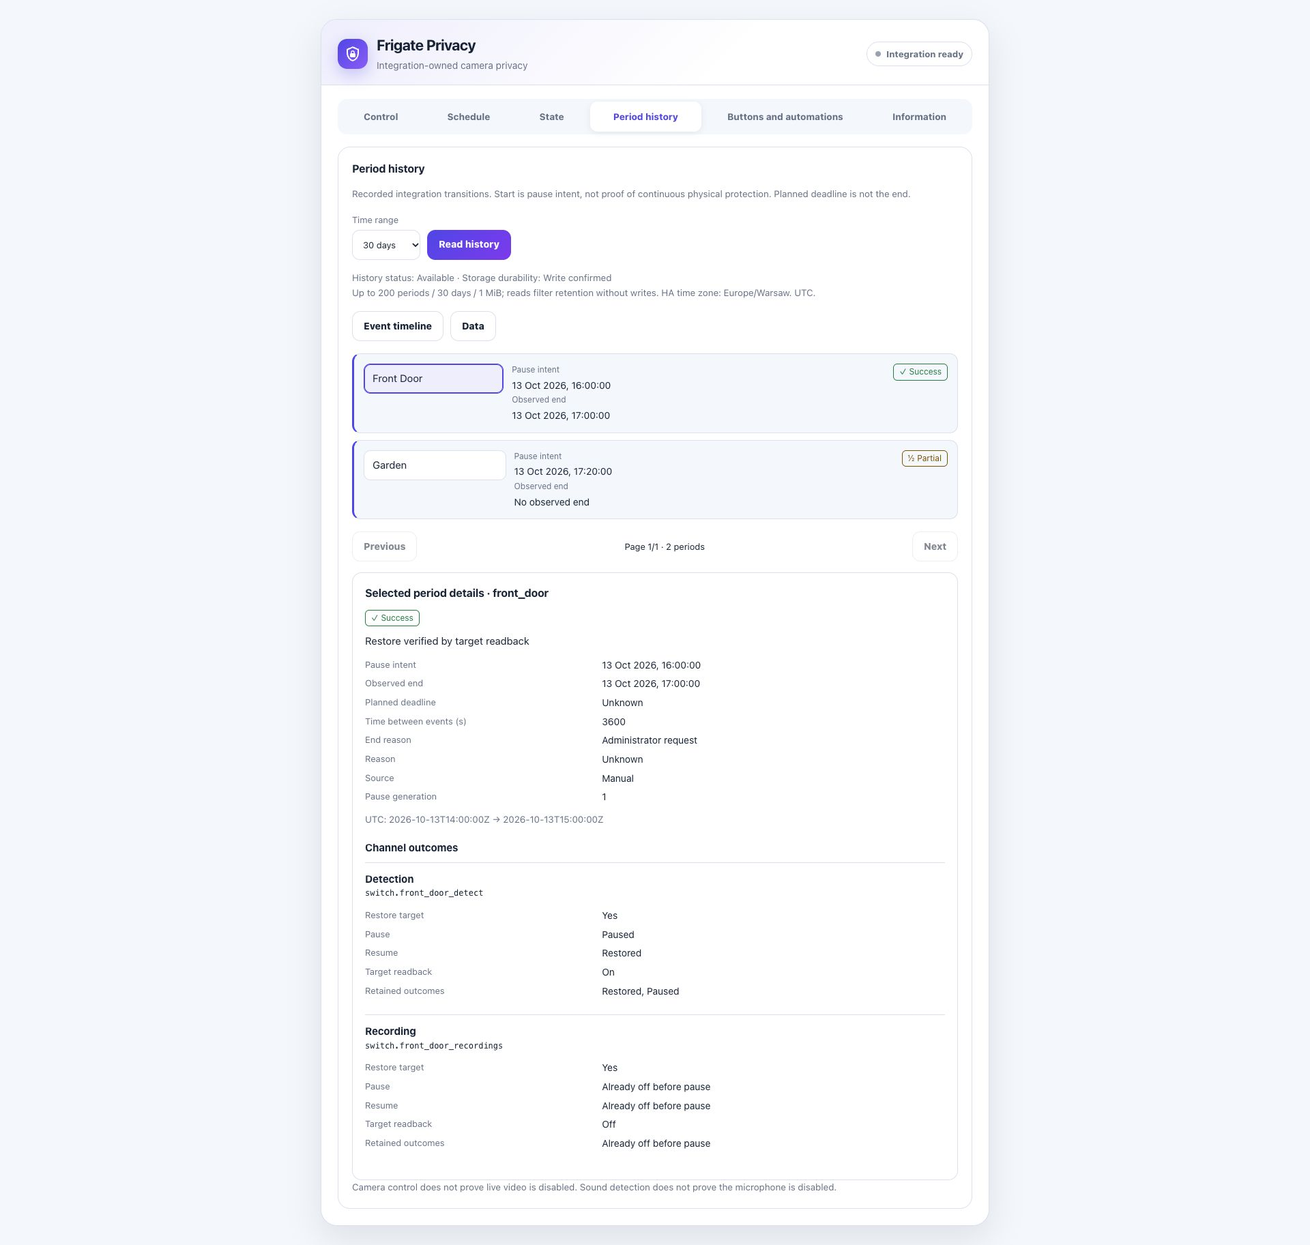
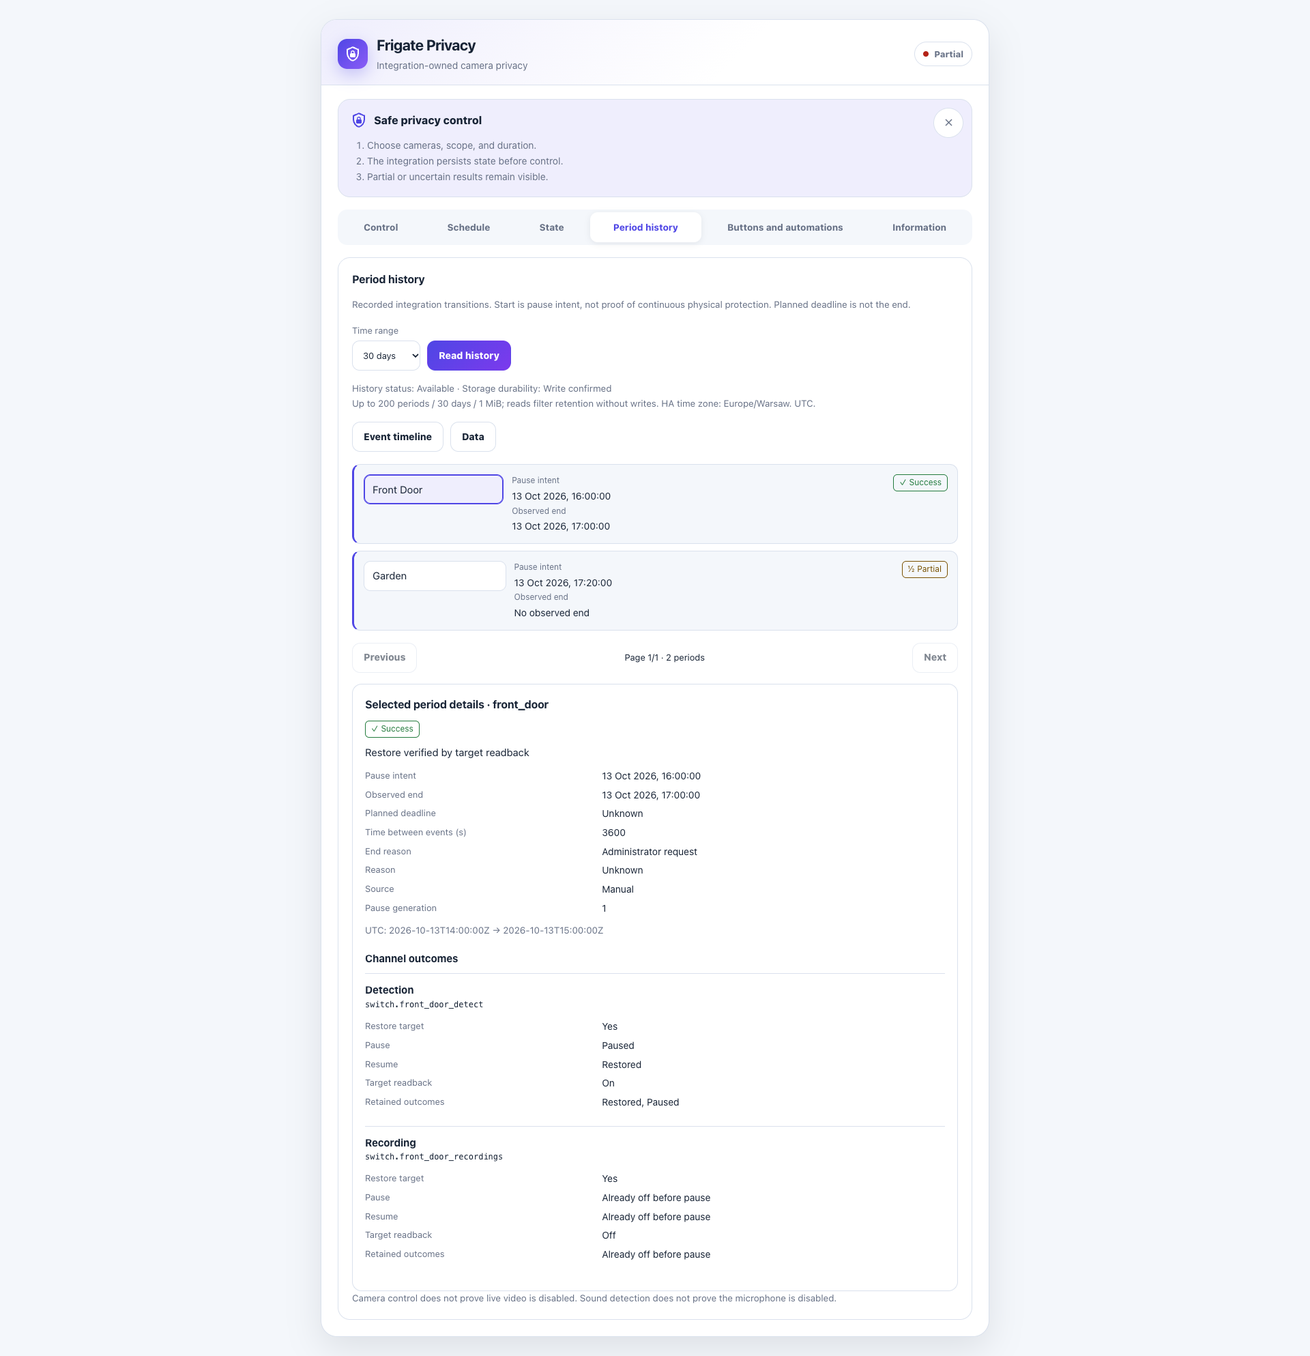
ui: qualify current camera feedback materials and readable layouts

diff --git a/docs/screenshots/_harness.html b/docs/screenshots/_harness.html
@@ -20,7 +20,7 @@ customElements.define('ha-icon',class extends HTMLElement {
  }
 });
 </script>
-<script src="../../ha-frigate-privacy.js?sha256=2250640b81e84646edd24beb830e9bee486ce52debc01453b00a8d4a7c184e5e"></script>
+<script src="../../ha-frigate-privacy.js?sha256=5e493e2751a6741882cdcae94a0ca6d3e07fa04c044732bfcc2add44fbe077a2"></script>
 <script>
 // Documentation fixture: synthetic state and actual periods.py projection only.
 // Mutations deliberately fail; integration acceptance uses a separate live HA fixture.
@@ -113,15 +113,214 @@ const periods={
   "scope": "recorded_transitions",
   "days": 30
 };
-const cameras=[['front_door','Front Door','off'],['garden','Garden','on']].map(([id,name,recording])=>({
- camera_id:id,entity_id:'camera.'+id,name,camera_state:'idle',camera_can_toggle:false,
- switches:[['_detect','on'],['_recordings',recording],['_snapshots','on'],['_audio','off']].map(([suffix,state])=>({entity_id:'switch.'+id+suffix,suffix,state})),
- missing_switches:[],available_switches:['_detect','_recordings','_snapshots','_audio'].map(s=>'switch.'+id+s)
-}));
+// Synthetic records shaped from the actual isolated HA operation, identifiers replaced.
+const cameras=[
+  {
+    "camera_id": "front_door",
+    "entity_id": "camera.front_door",
+    "name": "Front Door",
+    "camera_state": "off",
+    "camera_can_toggle": true,
+    "switches": [
+      {
+        "entity_id": "switch.front_door_detect",
+        "suffix": "_detect",
+        "state": "on",
+        "name": "front_door_detect"
+      },
+      {
+        "entity_id": "switch.front_door_recordings",
+        "suffix": "_recordings",
+        "state": "off",
+        "name": "front_door_recordings"
+      },
+      {
+        "entity_id": "switch.front_door_snapshots",
+        "suffix": "_snapshots",
+        "state": "off",
+        "name": "front_door_snapshots"
+      },
+      {
+        "entity_id": "switch.front_door_audio",
+        "suffix": "_audio",
+        "state": "off",
+        "name": "front_door_audio"
+      }
+    ],
+    "available_switches": [
+      "switch.front_door_detect",
+      "switch.front_door_recordings",
+      "switch.front_door_snapshots",
+      "switch.front_door_audio"
+    ],
+    "missing_switches": [
+      "switch.front_door_enabled",
+      "switch.front_door_motion",
+      "switch.front_door_audio_detection",
+      "switch.front_door_review_alerts",
+      "switch.front_door_review_detections"
+    ]
+  },
+  {
+    "camera_id": "garden",
+    "entity_id": "camera.garden",
+    "name": "Garden",
+    "camera_state": "idle",
+    "camera_can_toggle": true,
+    "switches": [
+      {
+        "entity_id": "switch.garden_detect",
+        "suffix": "_detect",
+        "state": "off",
+        "name": "garden_detect"
+      },
+      {
+        "entity_id": "switch.garden_recordings",
+        "suffix": "_recordings",
+        "state": "off",
+        "name": "garden_recordings"
+      },
+      {
+        "entity_id": "switch.garden_snapshots",
+        "suffix": "_snapshots",
+        "state": "off",
+        "name": "garden_snapshots"
+      },
+      {
+        "entity_id": "switch.garden_audio",
+        "suffix": "_audio",
+        "state": "off",
+        "name": "garden_audio"
+      }
+    ],
+    "available_switches": [
+      "switch.garden_detect",
+      "switch.garden_recordings",
+      "switch.garden_snapshots",
+      "switch.garden_audio"
+    ],
+    "missing_switches": [
+      "switch.garden_enabled",
+      "switch.garden_motion",
+      "switch.garden_audio_detection",
+      "switch.garden_review_alerts",
+      "switch.garden_review_detections"
+    ]
+  }
+];
+const paused={
+  "front_door": {
+    "camera_entity_id": "camera.front_door",
+    "name": "Front Door",
+    "phase": "partial",
+    "desired_state": "paused",
+    "stream_type": "all",
+    "source": "manual",
+    "planned_switches": [
+      "switch.front_door_detect",
+      "switch.front_door_snapshots"
+    ],
+    "switches": [
+      "switch.front_door_snapshots"
+    ],
+    "preexisting_off": [
+      "switch.front_door_recordings",
+      "switch.front_door_audio"
+    ],
+    "skipped": [
+      "switch.front_door_enabled",
+      "switch.front_door_motion",
+      "switch.front_door_audio_detection",
+      "switch.front_door_review_alerts",
+      "switch.front_door_review_detections"
+    ],
+    "unavailable": [],
+    "failed": [
+      "switch.front_door_detect"
+    ],
+    "camera_planned": true,
+    "camera_toggled": true,
+    "camera_failed": false,
+    "target_outcomes": {
+      "switch.front_door_enabled": "missing",
+      "switch.front_door_motion": "missing",
+      "switch.front_door_audio_detection": "missing",
+      "switch.front_door_review_alerts": "missing",
+      "switch.front_door_review_detections": "missing",
+      "switch.front_door_recordings": "preexisting_off",
+      "switch.front_door_audio": "preexisting_off",
+      "switch.front_door_detect": "service_failed",
+      "switch.front_door_snapshots": "paused",
+      "camera.front_door": "paused"
+    },
+    "active": true,
+    "reason": "pause_incomplete",
+    "last_verified_actual_state": {
+      "switch.front_door_detect": "on",
+      "switch.front_door_snapshots": "off",
+      "switch.front_door_recordings": "off",
+      "switch.front_door_audio": "off",
+      "camera.front_door": "off"
+    }
+  },
+  "garden": {
+    "camera_entity_id": "camera.garden",
+    "name": "Garden",
+    "phase": "paused",
+    "desired_state": "paused",
+    "stream_type": "all",
+    "source": "manual",
+    "planned_switches": [
+      "switch.garden_recordings",
+      "switch.garden_audio"
+    ],
+    "switches": [
+      "switch.garden_recordings",
+      "switch.garden_audio"
+    ],
+    "preexisting_off": [
+      "switch.garden_detect",
+      "switch.garden_snapshots"
+    ],
+    "skipped": [
+      "switch.garden_enabled",
+      "switch.garden_motion",
+      "switch.garden_audio_detection",
+      "switch.garden_review_alerts",
+      "switch.garden_review_detections"
+    ],
+    "unavailable": [],
+    "failed": [],
+    "camera_planned": false,
+    "camera_toggled": false,
+    "camera_failed": false,
+    "target_outcomes": {
+      "switch.garden_enabled": "missing",
+      "switch.garden_motion": "missing",
+      "switch.garden_audio_detection": "missing",
+      "switch.garden_review_alerts": "missing",
+      "switch.garden_review_detections": "missing",
+      "switch.garden_detect": "preexisting_off",
+      "switch.garden_snapshots": "preexisting_off",
+      "switch.garden_recordings": "paused",
+      "switch.garden_audio": "paused"
+    },
+    "active": true,
+    "reason": null,
+    "last_verified_actual_state": {
+      "switch.garden_recordings": "off",
+      "switch.garden_audio": "off",
+      "switch.garden_detect": "off",
+      "switch.garden_snapshots": "off",
+      "camera.garden": "idle"
+    }
+  }
+};
+Object.values(paused).forEach((record,index)=>{record.started_at=new Date().toISOString();record.ends_at=new Date(Date.now()+(index+1)*15*60000).toISOString();});
 const connection=new EventTarget();connection.connected=true;
 const hass={language:'en',themes:{darkMode:theme==='dark'},config:{time_zone:'Europe/Warsaw',instance_id:'documentation-only'},connection,states:{},user:{id:'synthetic-admin',is_admin:true,is_active:true},
  callWS:async message=>{
-  if(message.type==='ha_frigate_privacy/get_state')return {cameras:structuredClone(cameras),schedules:[],paused:{},last_operations:{},recovery_ready:true};
+  if(message.type==='ha_frigate_privacy/get_state')return {cameras:structuredClone(cameras),schedules:[],paused:structuredClone(paused),last_operations:{},recovery_ready:true};
   if(message.type==='ha_frigate_privacy/get_periods')return {...structuredClone(periods),days:message.days};
   throw new Error('Synthetic documentation does not control cameras');
  }};

diff --git a/custom_components/ha_frigate_privacy/www/ha-frigate-privacy-card.js b/custom_components/ha_frigate_privacy/www/ha-frigate-privacy-card.js
@@ -54,13 +54,13 @@ function createUiV3({ language = 'en' } = {}) {
       --fp-card: var(--card-background-color, #ffffff); --fp-bg: var(--primary-background-color, #f6f7fb);
       --fp-soft: color-mix(in srgb, var(--fp-primary) 9%, var(--fp-card));
       --fp-border: var(--divider-color, #e4e7ec); --fp-text: var(--primary-text-color, #101828);
-      --fp-muted: var(--secondary-text-color, #667085); --fp-success: #18763b; --fp-warning: #795100; --fp-danger: #b42318;
+      --fp-muted: var(--secondary-text-color, #667085); --fp-success: #18763b; --fp-warning: #795100; --fp-danger: #b42318; --fp-on-danger: #fff;
       display: block; color: var(--fp-text); font-family: Inter, -apple-system, BlinkMacSystemFont, "Segoe UI", sans-serif; font-size: 15px; line-height: 1.55; -webkit-font-smoothing: antialiased;
     }
     :host(.bento-dark) {
       --fp-card: var(--card-background-color, #151821); --fp-bg: var(--primary-background-color, #0e1117);
       --fp-border: var(--divider-color, #2b3140); --fp-text: var(--primary-text-color, #f4f6fb);
-      --fp-success:#81cf99; --fp-warning:#efd080; --fp-danger:#ff9999;
+      --fp-success:#81cf99; --fp-warning:#efd080; --fp-danger:#ff9999; --fp-on-danger:#101828;
       --fp-muted: var(--secondary-text-color, #aab2c0); --fp-soft: color-mix(in srgb, var(--fp-primary) 15%, var(--fp-card)); color-scheme: dark;
     }
     :host .ht-result-state { background:transparent; }
@@ -94,6 +94,7 @@ function createUiV3({ language = 'en' } = {}) {
     .helper { color: var(--fp-muted); font-size: 13.5px; line-height: 1.6; }
     .camera-grid { display: grid; grid-template-columns: repeat(2, minmax(0, 1fr)); gap: 12px; align-items: start; }
     .camera-card { display: flex; align-items: center; gap: 11px; min-height: 58px; padding: 14px; border: 1px solid var(--fp-border); border-radius: 14px; background: var(--fp-card); cursor: pointer; transition: border-color .18s, background .18s, transform .18s; }
+    .camera-grid > .camera-card { grid-column: 1 / -1; }
     .camera-card:hover { transform: translateY(-1px); border-color: color-mix(in srgb, var(--fp-primary) 45%, var(--fp-border)); } .camera-card.selected { border-color: var(--fp-primary); background: var(--fp-soft); }
     .camera-card ha-icon { flex: 0 0 auto; color: var(--fp-primary); --mdc-icon-size: 22px; } .camera-name { min-width: 0; overflow-wrap: break-word; font-size: 14px; line-height: 1.4; font-weight: 700; } .camera-check { margin-left: auto; color: var(--fp-primary); }
     .camera-tile { min-width: 0; padding: 8px; border: 1px solid var(--fp-border); border-radius: 14px; } .camera-tile .camera-card { border: 0; padding: 7px; min-height: 42px; }
@@ -114,7 +115,7 @@ function createUiV3({ language = 'en' } = {}) {
     .duration-row { display: grid; grid-template-columns: 1fr auto; gap: 10px; margin-top: 12px; }
     input, select { min-height: 42px; width: 100%; padding: 9px 11px; border: 1px solid var(--fp-border); border-radius: 11px; background: var(--fp-card); color: var(--fp-text); }
     .btn { min-height: 44px; padding: 10px 16px; border: 1px solid transparent; border-radius: 12px; cursor: pointer; font-size: 14px; line-height: 1.35; font-weight: 800; } .btn:disabled { cursor: not-allowed; opacity: .55; }
-    .btn-primary { color: white; background: linear-gradient(135deg, #4f46e5, #7c3aed); } .btn-secondary { color: var(--fp-text); background: var(--fp-card); border-color: var(--fp-border); } .btn-danger { color: white; background: var(--fp-danger); } .btn-full { width: 100%; margin-top: 14px; }
+    .btn-primary { color: white; background: linear-gradient(135deg, #4f46e5, #7c3aed); } .btn-secondary { color: var(--fp-text); background: var(--fp-card); border-color: var(--fp-border); } .btn-danger { color: var(--fp-on-danger); background: var(--fp-danger); } .btn-full { width: 100%; margin-top: 14px; }
     .state-grid { display: grid; gap: 12px; } .state-row { display: grid; grid-template-columns: minmax(0,1fr) auto; gap: 14px 16px; padding: 16px; border: 1px solid var(--fp-border); border-radius: 14px; }
     .state-name { font-size: 15px; line-height: 1.4; font-weight: 750; } .state-meta { margin-top: 7px; color: var(--fp-muted); font-size: 13px; line-height: 1.6; overflow-wrap: break-word; }
     .evidence { grid-column: 1 / -1; color: var(--fp-muted); font-size: 12.5px; line-height: 1.55; } .evidence summary { cursor: pointer; font-weight: 750; } .evidence-list { display: grid; gap: 6px; margin-top: 9px; overflow-wrap: anywhere; }
@@ -128,7 +129,7 @@ function createUiV3({ language = 'en' } = {}) {
     .form-actions { display: flex; gap: 9px; margin-top: 13px; }
     .donate-section { display: flex; align-items: center; justify-content: flex-start; gap: 8px; margin-top: 8px; padding: 4px 0; font-size: 11px; background:none; border:0; box-shadow:none; } .donate-section button { margin-left:auto; padding:2px 6px; min-height:0; line-height:1; border:0; background:transparent; color:var(--fp-muted); cursor:pointer; } .donate-section .donate-btn { min-height:0; padding:0; border:0; border-radius:0; background:none; color:var(--fp-muted); text-decoration:underline; font-size:11px; line-height:1.35; font-weight:400; } .donate-text h3 { font-size: 15px; line-height: 1.4; } .donate-text p { margin-top: 6px; color: var(--fp-muted); font-size: 13.5px; line-height: 1.55; }
     .donate-buttons { display: flex; gap: 9px; } .donate-btn { display: inline-flex; align-items: center; gap: 7px; min-height: 42px; padding: 9px 12px; border: 1px solid var(--fp-border); border-radius: 11px; background: var(--fp-card); color: var(--fp-text); text-decoration: none; font-size: 13px; line-height: 1.35; font-weight: 750; } .donate-btn ha-icon { --mdc-icon-size: 18px; color: var(--fp-primary); }
-    .toast { position: fixed; left: 50%; bottom: 24px; z-index: 10; max-width: min(90vw, 520px); transform: translate(-50%, 90px); opacity: 0; pointer-events: none; padding: 12px 17px; border-radius: 11px; background: #101828; color: #fff; transition: .22s; font-size: 14px; line-height: 1.45; } .toast.show { transform: translate(-50%, 0); opacity: 1; } .toast.error { background: var(--fp-danger); }
+    .toast { position: fixed; left: 50%; bottom: 24px; z-index: 10; max-width: min(90vw, 520px); transform: translate(-50%, 90px); opacity: 0; pointer-events: none; padding: 12px 17px; border-radius: 11px; background: #101828; color: #fff; transition: .22s; font-size: 14px; line-height: 1.45; } .toast.show { transform: translate(-50%, 0); opacity: 1; } .toast.error { color:var(--fp-on-danger); background: var(--fp-danger); }
     .empty { padding: 24px; text-align: center; color: var(--fp-muted); font-size: 14px; line-height: 1.55; }
 
     .donate-section button, .donate-section .donate-btn { min-width:44px;min-height:44px; }

diff --git a/ha-frigate-privacy.js b/ha-frigate-privacy.js
@@ -54,13 +54,13 @@ function createUiV3({ language = 'en' } = {}) {
       --fp-card: var(--card-background-color, #ffffff); --fp-bg: var(--primary-background-color, #f6f7fb);
       --fp-soft: color-mix(in srgb, var(--fp-primary) 9%, var(--fp-card));
       --fp-border: var(--divider-color, #e4e7ec); --fp-text: var(--primary-text-color, #101828);
-      --fp-muted: var(--secondary-text-color, #667085); --fp-success: #18763b; --fp-warning: #795100; --fp-danger: #b42318;
+      --fp-muted: var(--secondary-text-color, #667085); --fp-success: #18763b; --fp-warning: #795100; --fp-danger: #b42318; --fp-on-danger: #fff;
       display: block; color: var(--fp-text); font-family: Inter, -apple-system, BlinkMacSystemFont, "Segoe UI", sans-serif; font-size: 15px; line-height: 1.55; -webkit-font-smoothing: antialiased;
     }
     :host(.bento-dark) {
       --fp-card: var(--card-background-color, #151821); --fp-bg: var(--primary-background-color, #0e1117);
       --fp-border: var(--divider-color, #2b3140); --fp-text: var(--primary-text-color, #f4f6fb);
-      --fp-success:#81cf99; --fp-warning:#efd080; --fp-danger:#ff9999;
+      --fp-success:#81cf99; --fp-warning:#efd080; --fp-danger:#ff9999; --fp-on-danger:#101828;
       --fp-muted: var(--secondary-text-color, #aab2c0); --fp-soft: color-mix(in srgb, var(--fp-primary) 15%, var(--fp-card)); color-scheme: dark;
     }
     :host .ht-result-state { background:transparent; }
@@ -94,6 +94,7 @@ function createUiV3({ language = 'en' } = {}) {
     .helper { color: var(--fp-muted); font-size: 13.5px; line-height: 1.6; }
     .camera-grid { display: grid; grid-template-columns: repeat(2, minmax(0, 1fr)); gap: 12px; align-items: start; }
     .camera-card { display: flex; align-items: center; gap: 11px; min-height: 58px; padding: 14px; border: 1px solid var(--fp-border); border-radius: 14px; background: var(--fp-card); cursor: pointer; transition: border-color .18s, background .18s, transform .18s; }
+    .camera-grid > .camera-card { grid-column: 1 / -1; }
     .camera-card:hover { transform: translateY(-1px); border-color: color-mix(in srgb, var(--fp-primary) 45%, var(--fp-border)); } .camera-card.selected { border-color: var(--fp-primary); background: var(--fp-soft); }
     .camera-card ha-icon { flex: 0 0 auto; color: var(--fp-primary); --mdc-icon-size: 22px; } .camera-name { min-width: 0; overflow-wrap: break-word; font-size: 14px; line-height: 1.4; font-weight: 700; } .camera-check { margin-left: auto; color: var(--fp-primary); }
     .camera-tile { min-width: 0; padding: 8px; border: 1px solid var(--fp-border); border-radius: 14px; } .camera-tile .camera-card { border: 0; padding: 7px; min-height: 42px; }
@@ -114,7 +115,7 @@ function createUiV3({ language = 'en' } = {}) {
     .duration-row { display: grid; grid-template-columns: 1fr auto; gap: 10px; margin-top: 12px; }
     input, select { min-height: 42px; width: 100%; padding: 9px 11px; border: 1px solid var(--fp-border); border-radius: 11px; background: var(--fp-card); color: var(--fp-text); }
     .btn { min-height: 44px; padding: 10px 16px; border: 1px solid transparent; border-radius: 12px; cursor: pointer; font-size: 14px; line-height: 1.35; font-weight: 800; } .btn:disabled { cursor: not-allowed; opacity: .55; }
-    .btn-primary { color: white; background: linear-gradient(135deg, #4f46e5, #7c3aed); } .btn-secondary { color: var(--fp-text); background: var(--fp-card); border-color: var(--fp-border); } .btn-danger { color: white; background: var(--fp-danger); } .btn-full { width: 100%; margin-top: 14px; }
+    .btn-primary { color: white; background: linear-gradient(135deg, #4f46e5, #7c3aed); } .btn-secondary { color: var(--fp-text); background: var(--fp-card); border-color: var(--fp-border); } .btn-danger { color: var(--fp-on-danger); background: var(--fp-danger); } .btn-full { width: 100%; margin-top: 14px; }
     .state-grid { display: grid; gap: 12px; } .state-row { display: grid; grid-template-columns: minmax(0,1fr) auto; gap: 14px 16px; padding: 16px; border: 1px solid var(--fp-border); border-radius: 14px; }
     .state-name { font-size: 15px; line-height: 1.4; font-weight: 750; } .state-meta { margin-top: 7px; color: var(--fp-muted); font-size: 13px; line-height: 1.6; overflow-wrap: break-word; }
     .evidence { grid-column: 1 / -1; color: var(--fp-muted); font-size: 12.5px; line-height: 1.55; } .evidence summary { cursor: pointer; font-weight: 750; } .evidence-list { display: grid; gap: 6px; margin-top: 9px; overflow-wrap: anywhere; }
@@ -128,7 +129,7 @@ function createUiV3({ language = 'en' } = {}) {
     .form-actions { display: flex; gap: 9px; margin-top: 13px; }
     .donate-section { display: flex; align-items: center; justify-content: flex-start; gap: 8px; margin-top: 8px; padding: 4px 0; font-size: 11px; background:none; border:0; box-shadow:none; } .donate-section button { margin-left:auto; padding:2px 6px; min-height:0; line-height:1; border:0; background:transparent; color:var(--fp-muted); cursor:pointer; } .donate-section .donate-btn { min-height:0; padding:0; border:0; border-radius:0; background:none; color:var(--fp-muted); text-decoration:underline; font-size:11px; line-height:1.35; font-weight:400; } .donate-text h3 { font-size: 15px; line-height: 1.4; } .donate-text p { margin-top: 6px; color: var(--fp-muted); font-size: 13.5px; line-height: 1.55; }
     .donate-buttons { display: flex; gap: 9px; } .donate-btn { display: inline-flex; align-items: center; gap: 7px; min-height: 42px; padding: 9px 12px; border: 1px solid var(--fp-border); border-radius: 11px; background: var(--fp-card); color: var(--fp-text); text-decoration: none; font-size: 13px; line-height: 1.35; font-weight: 750; } .donate-btn ha-icon { --mdc-icon-size: 18px; color: var(--fp-primary); }
-    .toast { position: fixed; left: 50%; bottom: 24px; z-index: 10; max-width: min(90vw, 520px); transform: translate(-50%, 90px); opacity: 0; pointer-events: none; padding: 12px 17px; border-radius: 11px; background: #101828; color: #fff; transition: .22s; font-size: 14px; line-height: 1.45; } .toast.show { transform: translate(-50%, 0); opacity: 1; } .toast.error { background: var(--fp-danger); }
+    .toast { position: fixed; left: 50%; bottom: 24px; z-index: 10; max-width: min(90vw, 520px); transform: translate(-50%, 90px); opacity: 0; pointer-events: none; padding: 12px 17px; border-radius: 11px; background: #101828; color: #fff; transition: .22s; font-size: 14px; line-height: 1.45; } .toast.show { transform: translate(-50%, 0); opacity: 1; } .toast.error { color:var(--fp-on-danger); background: var(--fp-danger); }
     .empty { padding: 24px; text-align: center; color: var(--fp-muted); font-size: 14px; line-height: 1.55; }
 
     .donate-section button, .donate-section .donate-btn { min-width:44px;min-height:44px; }

diff --git a/README.md b/README.md
@@ -57,6 +57,8 @@ created.
 > can reveal household routines. All custom WebSocket commands, including reads,
 > therefore require a Home Assistant administrator account.
 
+A manual pause extended by a schedule retains its original requested scope. The camera tile identifies the extension and exposes per-target evidence; its original timer alone does not describe schedule coverage.
+
 ### Privacy scopes
 
 | Scope | Targets requested off |
@@ -209,8 +211,9 @@ type: custom:ha-frigate-privacy
 That's it. For an administrator, the card lists discovered Frigate cameras with
 pause/resume controls, backend-confirmed state, and the schedule editor. Each
 camera shows the current HA camera entity, recording switch, and sound-detection
-switch status. **Preview in HA** opens Home Assistant's native camera view only
-when selected; the card never loads a live feed on its own. An unavailable
+switch status. **Preview** expands Home Assistant's native camera card inside
+the selected camera tile. Close it with the same button; the tool fetches no
+frames before an administrator opens it. An unavailable
 sound-detection switch is shown as unavailable rather than assumed to be on.
 
 ## Entities for automations

diff --git a/CHANGELOG.md b/CHANGELOG.md
@@ -7,6 +7,7 @@
 - Give channel indicators semantic state colors in both themes, with text labels for on, off, idle, unknown, mixed and unavailable states.
 - Expand Preview inside the camera tile using Home Assistant's native camera card, only on demand. Close it on toggle, camera change, navigation or authority loss; discard late loads and require an explicit retry after loading errors.
 - Update countdown text without replacing controls or restarting a preview every second.
+- Distinguish the original requested scope from a schedule extension. Keep confirmed evidence that an earlier pause stopped camera video, while retaining warnings when that evidence is missing.
 
 ## 6.2.0 (2026-10-13)
 
